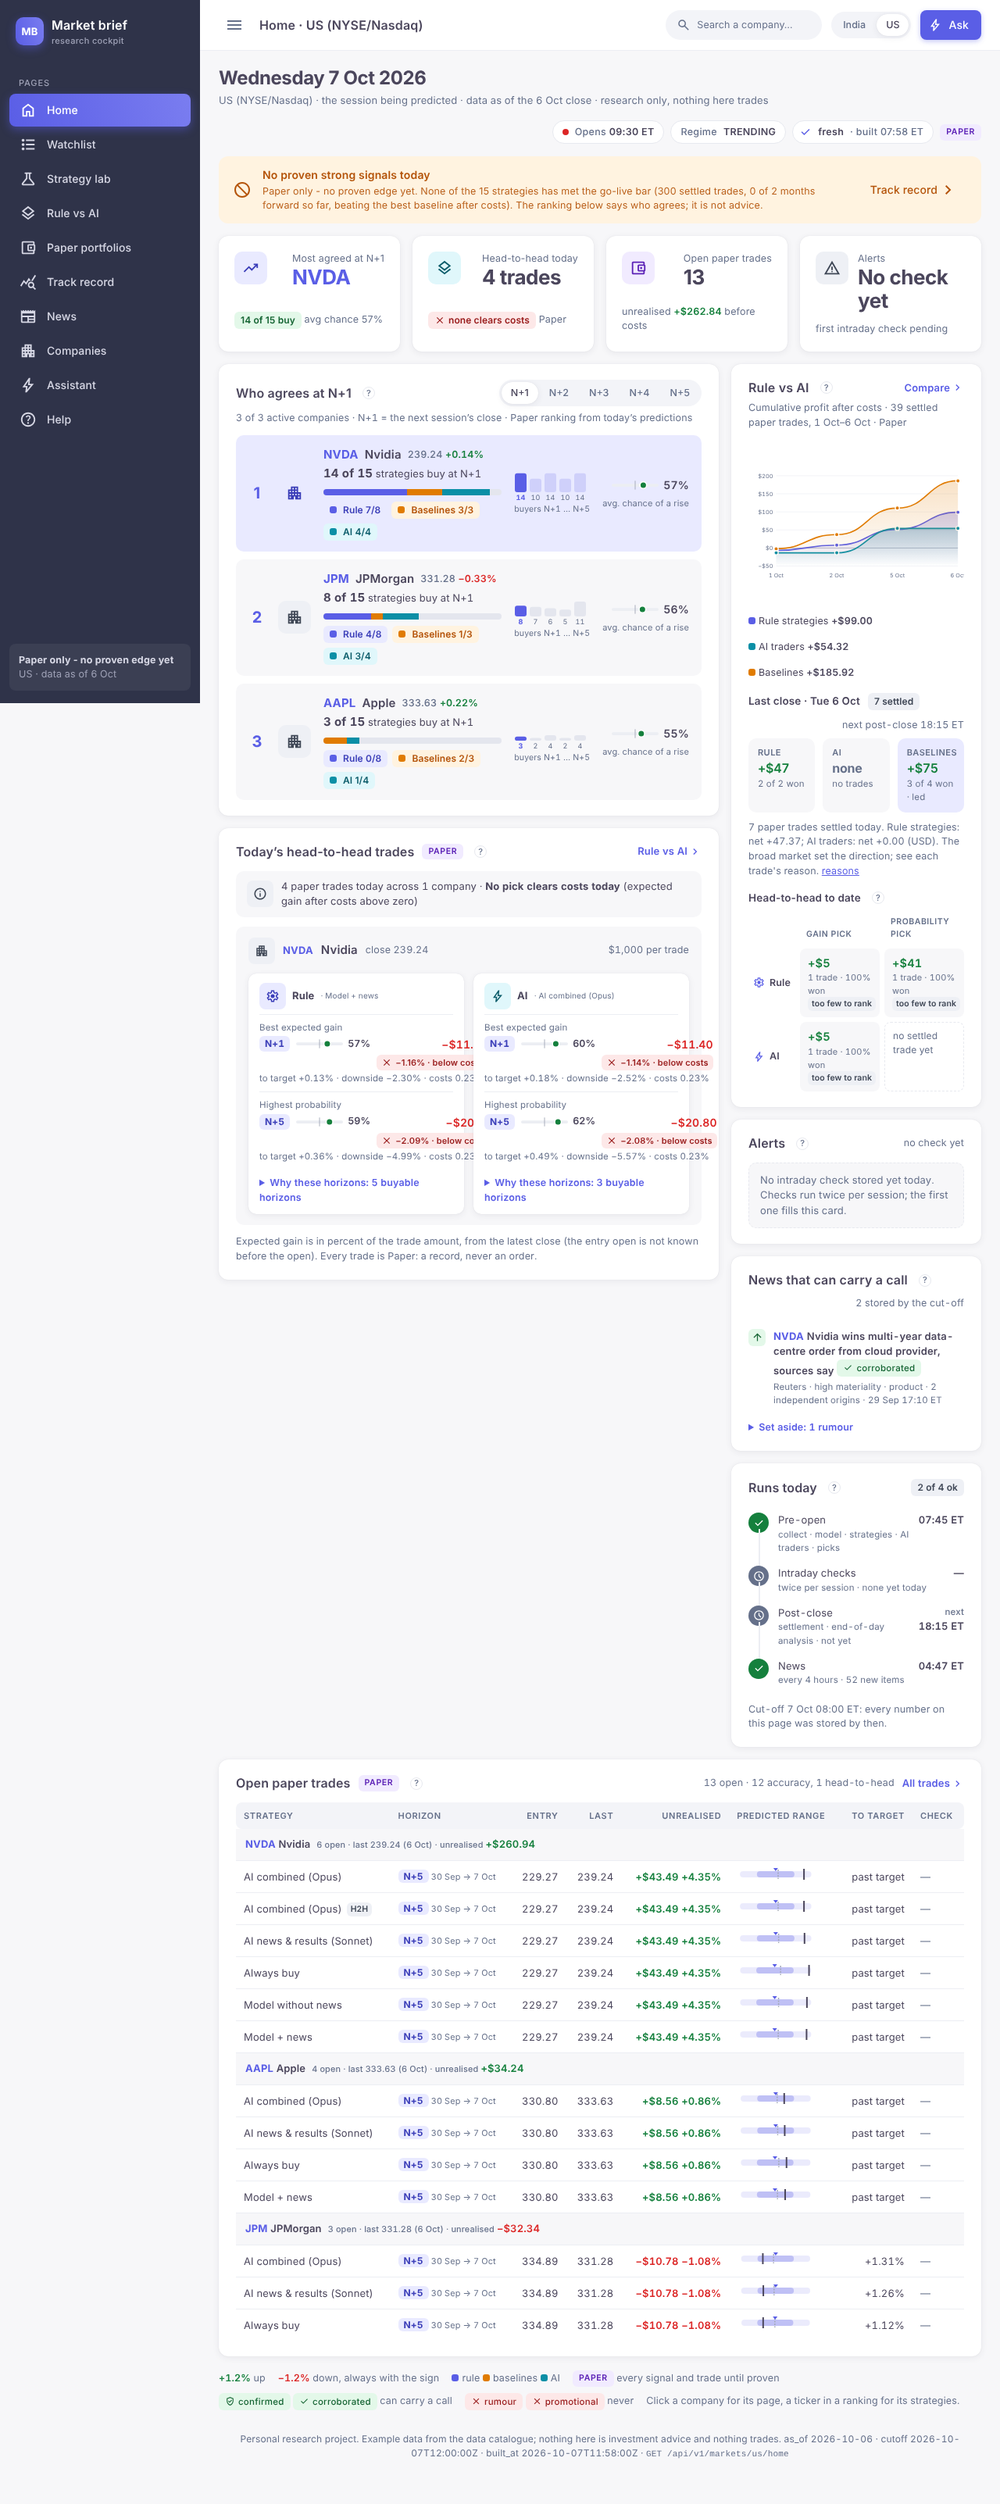
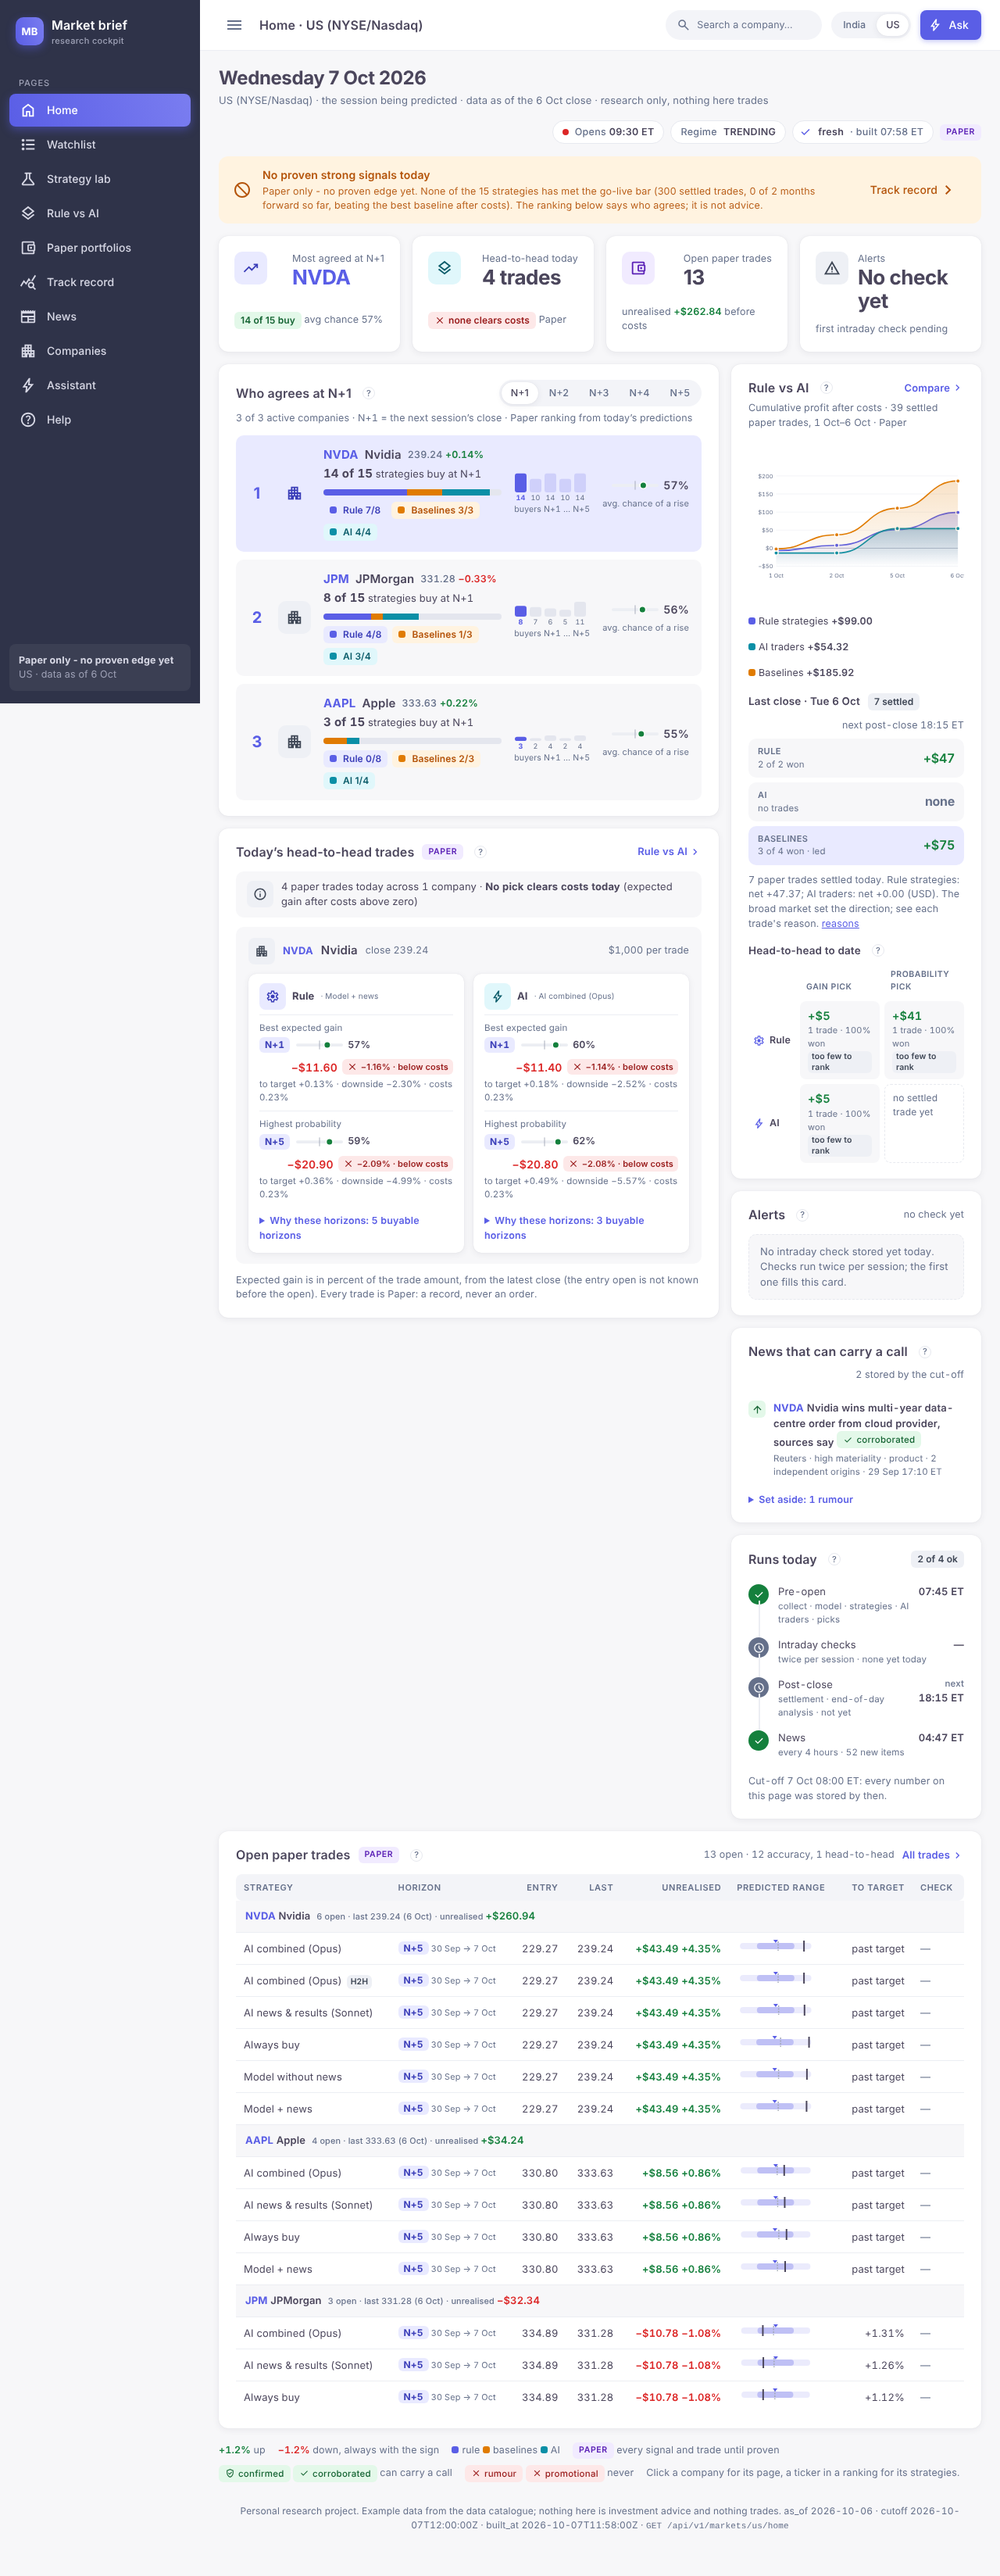
Design track: Home v3, no clipped or overlapping text at 390-1680 px
Pick rows wrap instead of overflowing, last-close tiles as rows, labels
wrap, phone agreement rows restacked; scanned with a Playwright script
for clipped, overflowing and overlapping text at eight widths, both
markets.

Claude-Session: https://claude.ai/code/session_01RuLrYPoHyYoZ2LBEo834w9

diff --git a/design/mockups/01-home/page.html b/design/mockups/01-home/page.html
@@ -570,17 +570,17 @@ body{font-size:14px;line-height:1.5;font-variant-numeric:tabular-nums}
 .chart .hit{fill:transparent}
 .legend{display:flex;gap:14px;flex-wrap:wrap;font-size:12.5px;margin-top:4px}
 .legend b{font-weight:600}
-.lastclose{display:grid;grid-template-columns:repeat(3,1fr);gap:10px;margin-top:14px}
-.lastclose .t{border-radius:var(--mb-panel-radius);padding:10px 12px;background:var(--md-sys-color-surface-container-low);min-width:0}
+.lastclose{display:grid;gap:6px;margin-top:14px}
+.lastclose .t{display:grid;grid-template-columns:minmax(0,1fr) auto;gap:0 12px;align-items:center;border-radius:var(--mb-panel-radius);padding:8px 12px;background:var(--md-sys-color-surface-container-low);min-width:0}
 .lastclose .t.lead{background:var(--md-sys-color-primary-container)}
 .lastclose .l{font-size:11px;color:var(--md-sys-color-on-surface-variant);letter-spacing:.04em;text-transform:uppercase;font-weight:600}
-.lastclose .v{font:700 16px/1.2 var(--md-ref-typeface-plain);margin-top:2px;letter-spacing:-.3px;white-space:nowrap}
-.lastclose .s{font-size:11.5px;color:var(--md-sys-color-on-surface-variant);margin-top:2px}
+.lastclose .v{font:700 16px/1.2 var(--md-ref-typeface-plain);letter-spacing:-.3px;white-space:nowrap;grid-column:2;grid-row:1 / span 2;text-align:right}
+.lastclose .s{font-size:11.5px;color:var(--md-sys-color-on-surface-variant)}
 .grid22{display:grid;grid-template-columns:auto 1fr 1fr;gap:6px;font-size:12.5px;align-items:stretch;margin-top:10px}
 .grid22 .hd{font-size:10.5px;color:var(--md-sys-color-on-surface-variant);letter-spacing:.05em;text-transform:uppercase;font-weight:600;padding:4px 8px;align-self:end}
 .grid22 .rh{font-weight:600;padding:8px 6px;display:flex;align-items:center;gap:6px} .grid22 .rh .ms{width:15px;height:15px;color:var(--md-sys-color-primary)}
 .grid22 .cell{border-radius:8px;padding:8px 10px;background:var(--md-sys-color-surface-container-low);min-width:0}
-.grid22 .cell .v{font-weight:700;font-size:14.5px} .grid22 .cell .s{font-size:11px;color:var(--md-sys-color-on-surface-variant)}
+.grid22 .cell .v{font-weight:700;font-size:14.5px} .grid22 .cell .s{font-size:11px;color:var(--md-sys-color-on-surface-variant);display:flex;flex-wrap:wrap;gap:2px 4px;align-items:center} .grid22 .cell .mb-label{white-space:normal;line-height:14px}
 .grid22 .cell.none{border:1px dashed var(--md-sys-color-outline-variant);background:transparent;color:var(--md-sys-color-on-surface-variant);font-size:12px}
 
 /* head-to-head */
@@ -593,12 +593,13 @@ body{font-size:14px;line-height:1.5;font-variant-numeric:tabular-nums}
 .fam-box{border-radius:10px;padding:12px 14px;background:var(--md-sys-color-surface-container-lowest);box-shadow:var(--mb-card-shadow);min-width:0}
 .fam-box .fh{display:flex;align-items:center;gap:8px;font-size:12px;margin-bottom:6px}
 .fam-box .fh b{font-weight:700;font-size:13px}
-.fam-box .fh small{color:var(--md-sys-color-on-surface-variant);min-width:0;overflow:hidden;text-overflow:ellipsis;white-space:nowrap}
-.pk{display:grid;grid-template-columns:auto 1fr auto;gap:2px 8px;align-items:center;padding:8px 0;border-top:1px solid var(--md-sys-color-surface-container-high);font-size:12.5px}
-.pk .rule{font-size:11.5px;color:var(--md-sys-color-on-surface-variant);grid-column:1 / span 3}
-.pk .det{grid-column:1 / span 3;font-size:11.5px;color:var(--md-sys-color-on-surface-variant)}
-.pk .gain{font-weight:700;text-align:right;white-space:nowrap;grid-column:3;grid-row:2 / span 2;font-size:14px}
-.pk .gain .mb-label{font-size:11px;padding:1px 6px;margin-top:2px}
+.fam-box .fh{flex-wrap:wrap} .fam-box .fh small{color:var(--md-sys-color-on-surface-variant);min-width:0;overflow-wrap:anywhere}
+.pk{display:grid;grid-template-columns:1fr;gap:3px;padding:8px 0;border-top:1px solid var(--md-sys-color-surface-container-high);font-size:12.5px;min-width:0}
+.pk .rule{font-size:11.5px;color:var(--md-sys-color-on-surface-variant)}
+.pk .line{display:flex;align-items:center;gap:8px;flex-wrap:wrap;min-width:0}
+.pk .det{font-size:11.5px;color:var(--md-sys-color-on-surface-variant);overflow-wrap:anywhere}
+.pk .gain{font-weight:700;font-size:14px;margin-left:auto;display:inline-flex;align-items:center;gap:6px;flex-wrap:wrap}
+.pk .gain .mb-label{font-size:11px;padding:1px 6px}
 .cand{margin-top:8px;font-size:12px} .cand summary{cursor:pointer;color:var(--md-sys-color-primary);font-weight:600;font-size:12.5px}
 .cand table{margin-top:6px} .cand td,.cand th{padding:5px 6px;font-size:12px}
 .sumline{display:flex;align-items:center;gap:10px;font-size:13px;padding:10px 14px;border-radius:var(--mb-panel-radius);background:var(--md-sys-color-surface-container-low);margin-bottom:12px}
@@ -642,6 +643,7 @@ footer{color:var(--md-sys-color-on-surface-variant);font-size:12px;text-align:ce
 
 @media (max-width: 1199px){ .kpis{grid-template-columns:repeat(2,1fr)} }
 @media (max-width: 1000px){ .grid{grid-template-columns:1fr} }
+@media (max-width: 760px){ .fams{grid-template-columns:1fr} .agl li{grid-template-columns:auto auto minmax(0,1fr) auto;padding:12px} .agl .hz{grid-column:2 / span 3;text-align:left} }
 @media (max-width: 599px){
   .card{padding:16px}
   .phead{margin-top:16px} .phead h1{font-size:21px} .phead .chips{margin-left:0}
@@ -649,8 +651,7 @@ footer{color:var(--md-sys-color-on-surface-variant);font-size:12px;text-align:ce
   .mb-alert{grid-template-columns:auto 1fr} .mb-alert .act{grid-column:1 / span 2}
   .fams{grid-template-columns:1fr}
   .ot th.v1,.ot td.v1,.ot span.v1{display:none} .ot small.v1{display:none} .ot .v2{display:table-cell} .ot td:first-child{white-space:normal} .ot .st{white-space:normal;align-items:start} .ot tr.grp td small{display:block;margin-left:0} .ot th{padding:8px 6px} .ot td{padding:8px 6px} .ot td.num{white-space:normal}
-  .agl li{grid-template-columns:auto auto minmax(0,1fr) auto;padding:12px} .agl .hz{grid-column:2 / span 3;text-align:left}
-  .lastclose{grid-template-columns:1fr 1fr 1fr;gap:6px} .lastclose .v{font-size:15px}
+  .agl li{grid-template-columns:auto auto minmax(0,1fr);padding:12px} .agl .hz{grid-column:1 / span 3;display:flex;align-items:center;gap:12px;text-align:left} .agl .hz small{margin:0} .agl .right{grid-column:1 / span 3;text-align:left;display:flex;align-items:center;gap:8px} .agl .right .l{margin:0}
 }
 </style>
 </head>
@@ -957,9 +958,9 @@ function headToHead(m) {
       for (const k of fk) {
         const row = el('div', {class:'pk'});
         row.append(el('span', {class:'rule'}, PICK[k.pick_rule]));
-        if (k.status !== 'picked') { row.append(el('span', {class:'muted'}, '—'), el('span', {class:'muted'}, 'no candidate'), el('span')); fb.append(row); continue; }
-        row.append(el('span', {class:'h-lab'}, `N+${k.horizon_days}`), odds(k.prob_up, `${pct(k.prob_up, 1)} chance of a rise from the open to the N+${k.horizon_days} close (the prediction ${k.prediction_id}).`),
-          el('span', {class:'gain'}, moneyDelta(cur, k.expected_gain_pct * k.amount / 100, dec(cur)), el('br'), el('span', {class:'mb-label ' + (k.expected_gain_pct > 0 ? 'success' : 'danger'), 'data-tip': `Expected gain after costs ${sgn(k.expected_gain_pct)} of ${money(cur, k.amount)}: ${pct(k.prob_up,1)} × ${sgn(k.move_pct)} − ${pct(1-k.prob_up,1)} × ${k.loss_pct}% − ${k.costs_pct}%.`}, icon(k.expected_gain_pct > 0 ? 'ms-check' : 'ms-close'), `${sgn(k.expected_gain_pct)} · ${k.expected_gain_pct > 0 ? 'clears costs' : 'below costs'}`)));
+        if (k.status !== 'picked') { row.append(el('span', {class:'line muted'}, 'no candidate')); fb.append(row); continue; }
+        row.append(el('span', {class:'line'}, el('span', {class:'h-lab'}, `N+${k.horizon_days}`), odds(k.prob_up, `${pct(k.prob_up, 1)} chance of a rise from the open to the N+${k.horizon_days} close (the prediction ${k.prediction_id}).`),
+          el('span', {class:'gain'}, moneyDelta(cur, k.expected_gain_pct * k.amount / 100, dec(cur)), el('span', {class:'mb-label ' + (k.expected_gain_pct > 0 ? 'success' : 'danger'), 'data-tip': `Expected gain after costs ${sgn(k.expected_gain_pct)} of ${money(cur, k.amount)}: ${pct(k.prob_up,1)} × ${sgn(k.move_pct)} − ${pct(1-k.prob_up,1)} × ${k.loss_pct}% − ${k.costs_pct}%.`}, icon(k.expected_gain_pct > 0 ? 'ms-check' : 'ms-close'), `${sgn(k.expected_gain_pct)} · ${k.expected_gain_pct > 0 ? 'clears costs' : 'below costs'}`))));
         row.append(el('span', {class:'det'}, `to target ${sgn(k.move_pct)} · downside ${sgn(-k.loss_pct)} · costs ${k.costs_pct}%`));
         fb.append(row);
       }

diff --git a/design/mockups/01-home/template.html b/design/mockups/01-home/template.html
@@ -73,17 +73,17 @@ body{font-size:14px;line-height:1.5;font-variant-numeric:tabular-nums}
 .chart .hit{fill:transparent}
 .legend{display:flex;gap:14px;flex-wrap:wrap;font-size:12.5px;margin-top:4px}
 .legend b{font-weight:600}
-.lastclose{display:grid;grid-template-columns:repeat(3,1fr);gap:10px;margin-top:14px}
-.lastclose .t{border-radius:var(--mb-panel-radius);padding:10px 12px;background:var(--md-sys-color-surface-container-low);min-width:0}
+.lastclose{display:grid;gap:6px;margin-top:14px}
+.lastclose .t{display:grid;grid-template-columns:minmax(0,1fr) auto;gap:0 12px;align-items:center;border-radius:var(--mb-panel-radius);padding:8px 12px;background:var(--md-sys-color-surface-container-low);min-width:0}
 .lastclose .t.lead{background:var(--md-sys-color-primary-container)}
 .lastclose .l{font-size:11px;color:var(--md-sys-color-on-surface-variant);letter-spacing:.04em;text-transform:uppercase;font-weight:600}
-.lastclose .v{font:700 16px/1.2 var(--md-ref-typeface-plain);margin-top:2px;letter-spacing:-.3px;white-space:nowrap}
-.lastclose .s{font-size:11.5px;color:var(--md-sys-color-on-surface-variant);margin-top:2px}
+.lastclose .v{font:700 16px/1.2 var(--md-ref-typeface-plain);letter-spacing:-.3px;white-space:nowrap;grid-column:2;grid-row:1 / span 2;text-align:right}
+.lastclose .s{font-size:11.5px;color:var(--md-sys-color-on-surface-variant)}
 .grid22{display:grid;grid-template-columns:auto 1fr 1fr;gap:6px;font-size:12.5px;align-items:stretch;margin-top:10px}
 .grid22 .hd{font-size:10.5px;color:var(--md-sys-color-on-surface-variant);letter-spacing:.05em;text-transform:uppercase;font-weight:600;padding:4px 8px;align-self:end}
 .grid22 .rh{font-weight:600;padding:8px 6px;display:flex;align-items:center;gap:6px} .grid22 .rh .ms{width:15px;height:15px;color:var(--md-sys-color-primary)}
 .grid22 .cell{border-radius:8px;padding:8px 10px;background:var(--md-sys-color-surface-container-low);min-width:0}
-.grid22 .cell .v{font-weight:700;font-size:14.5px} .grid22 .cell .s{font-size:11px;color:var(--md-sys-color-on-surface-variant)}
+.grid22 .cell .v{font-weight:700;font-size:14.5px} .grid22 .cell .s{font-size:11px;color:var(--md-sys-color-on-surface-variant);display:flex;flex-wrap:wrap;gap:2px 4px;align-items:center} .grid22 .cell .mb-label{white-space:normal;line-height:14px}
 .grid22 .cell.none{border:1px dashed var(--md-sys-color-outline-variant);background:transparent;color:var(--md-sys-color-on-surface-variant);font-size:12px}
 
 /* head-to-head */
@@ -96,12 +96,13 @@ body{font-size:14px;line-height:1.5;font-variant-numeric:tabular-nums}
 .fam-box{border-radius:10px;padding:12px 14px;background:var(--md-sys-color-surface-container-lowest);box-shadow:var(--mb-card-shadow);min-width:0}
 .fam-box .fh{display:flex;align-items:center;gap:8px;font-size:12px;margin-bottom:6px}
 .fam-box .fh b{font-weight:700;font-size:13px}
-.fam-box .fh small{color:var(--md-sys-color-on-surface-variant);min-width:0;overflow:hidden;text-overflow:ellipsis;white-space:nowrap}
-.pk{display:grid;grid-template-columns:auto 1fr auto;gap:2px 8px;align-items:center;padding:8px 0;border-top:1px solid var(--md-sys-color-surface-container-high);font-size:12.5px}
-.pk .rule{font-size:11.5px;color:var(--md-sys-color-on-surface-variant);grid-column:1 / span 3}
-.pk .det{grid-column:1 / span 3;font-size:11.5px;color:var(--md-sys-color-on-surface-variant)}
-.pk .gain{font-weight:700;text-align:right;white-space:nowrap;grid-column:3;grid-row:2 / span 2;font-size:14px}
-.pk .gain .mb-label{font-size:11px;padding:1px 6px;margin-top:2px}
+.fam-box .fh{flex-wrap:wrap} .fam-box .fh small{color:var(--md-sys-color-on-surface-variant);min-width:0;overflow-wrap:anywhere}
+.pk{display:grid;grid-template-columns:1fr;gap:3px;padding:8px 0;border-top:1px solid var(--md-sys-color-surface-container-high);font-size:12.5px;min-width:0}
+.pk .rule{font-size:11.5px;color:var(--md-sys-color-on-surface-variant)}
+.pk .line{display:flex;align-items:center;gap:8px;flex-wrap:wrap;min-width:0}
+.pk .det{font-size:11.5px;color:var(--md-sys-color-on-surface-variant);overflow-wrap:anywhere}
+.pk .gain{font-weight:700;font-size:14px;margin-left:auto;display:inline-flex;align-items:center;gap:6px;flex-wrap:wrap}
+.pk .gain .mb-label{font-size:11px;padding:1px 6px}
 .cand{margin-top:8px;font-size:12px} .cand summary{cursor:pointer;color:var(--md-sys-color-primary);font-weight:600;font-size:12.5px}
 .cand table{margin-top:6px} .cand td,.cand th{padding:5px 6px;font-size:12px}
 .sumline{display:flex;align-items:center;gap:10px;font-size:13px;padding:10px 14px;border-radius:var(--mb-panel-radius);background:var(--md-sys-color-surface-container-low);margin-bottom:12px}
@@ -145,6 +146,7 @@ footer{color:var(--md-sys-color-on-surface-variant);font-size:12px;text-align:ce
 
 @media (max-width: 1199px){ .kpis{grid-template-columns:repeat(2,1fr)} }
 @media (max-width: 1000px){ .grid{grid-template-columns:1fr} }
+@media (max-width: 760px){ .fams{grid-template-columns:1fr} .agl li{grid-template-columns:auto auto minmax(0,1fr) auto;padding:12px} .agl .hz{grid-column:2 / span 3;text-align:left} }
 @media (max-width: 599px){
   .card{padding:16px}
   .phead{margin-top:16px} .phead h1{font-size:21px} .phead .chips{margin-left:0}
@@ -152,8 +154,7 @@ footer{color:var(--md-sys-color-on-surface-variant);font-size:12px;text-align:ce
   .mb-alert{grid-template-columns:auto 1fr} .mb-alert .act{grid-column:1 / span 2}
   .fams{grid-template-columns:1fr}
   .ot th.v1,.ot td.v1,.ot span.v1{display:none} .ot small.v1{display:none} .ot .v2{display:table-cell} .ot td:first-child{white-space:normal} .ot .st{white-space:normal;align-items:start} .ot tr.grp td small{display:block;margin-left:0} .ot th{padding:8px 6px} .ot td{padding:8px 6px} .ot td.num{white-space:normal}
-  .agl li{grid-template-columns:auto auto minmax(0,1fr) auto;padding:12px} .agl .hz{grid-column:2 / span 3;text-align:left}
-  .lastclose{grid-template-columns:1fr 1fr 1fr;gap:6px} .lastclose .v{font-size:15px}
+  .agl li{grid-template-columns:auto auto minmax(0,1fr);padding:12px} .agl .hz{grid-column:1 / span 3;display:flex;align-items:center;gap:12px;text-align:left} .agl .hz small{margin:0} .agl .right{grid-column:1 / span 3;text-align:left;display:flex;align-items:center;gap:8px} .agl .right .l{margin:0}
 }
 </style>
 </head>
@@ -415,9 +416,9 @@ function headToHead(m) {
       for (const k of fk) {
         const row = el('div', {class:'pk'});
         row.append(el('span', {class:'rule'}, PICK[k.pick_rule]));
-        if (k.status !== 'picked') { row.append(el('span', {class:'muted'}, '—'), el('span', {class:'muted'}, 'no candidate'), el('span')); fb.append(row); continue; }
-        row.append(el('span', {class:'h-lab'}, `N+${k.horizon_days}`), odds(k.prob_up, `${pct(k.prob_up, 1)} chance of a rise from the open to the N+${k.horizon_days} close (the prediction ${k.prediction_id}).`),
-          el('span', {class:'gain'}, moneyDelta(cur, k.expected_gain_pct * k.amount / 100, dec(cur)), el('br'), el('span', {class:'mb-label ' + (k.expected_gain_pct > 0 ? 'success' : 'danger'), 'data-tip': `Expected gain after costs ${sgn(k.expected_gain_pct)} of ${money(cur, k.amount)}: ${pct(k.prob_up,1)} × ${sgn(k.move_pct)} − ${pct(1-k.prob_up,1)} × ${k.loss_pct}% − ${k.costs_pct}%.`}, icon(k.expected_gain_pct > 0 ? 'ms-check' : 'ms-close'), `${sgn(k.expected_gain_pct)} · ${k.expected_gain_pct > 0 ? 'clears costs' : 'below costs'}`)));
+        if (k.status !== 'picked') { row.append(el('span', {class:'line muted'}, 'no candidate')); fb.append(row); continue; }
+        row.append(el('span', {class:'line'}, el('span', {class:'h-lab'}, `N+${k.horizon_days}`), odds(k.prob_up, `${pct(k.prob_up, 1)} chance of a rise from the open to the N+${k.horizon_days} close (the prediction ${k.prediction_id}).`),
+          el('span', {class:'gain'}, moneyDelta(cur, k.expected_gain_pct * k.amount / 100, dec(cur)), el('span', {class:'mb-label ' + (k.expected_gain_pct > 0 ? 'success' : 'danger'), 'data-tip': `Expected gain after costs ${sgn(k.expected_gain_pct)} of ${money(cur, k.amount)}: ${pct(k.prob_up,1)} × ${sgn(k.move_pct)} − ${pct(1-k.prob_up,1)} × ${k.loss_pct}% − ${k.costs_pct}%.`}, icon(k.expected_gain_pct > 0 ? 'ms-check' : 'ms-close'), `${sgn(k.expected_gain_pct)} · ${k.expected_gain_pct > 0 ? 'clears costs' : 'below costs'}`))));
         row.append(el('span', {class:'det'}, `to target ${sgn(k.move_pct)} · downside ${sgn(-k.loss_pct)} · costs ${k.costs_pct}%`));
         fb.append(row);
       }
